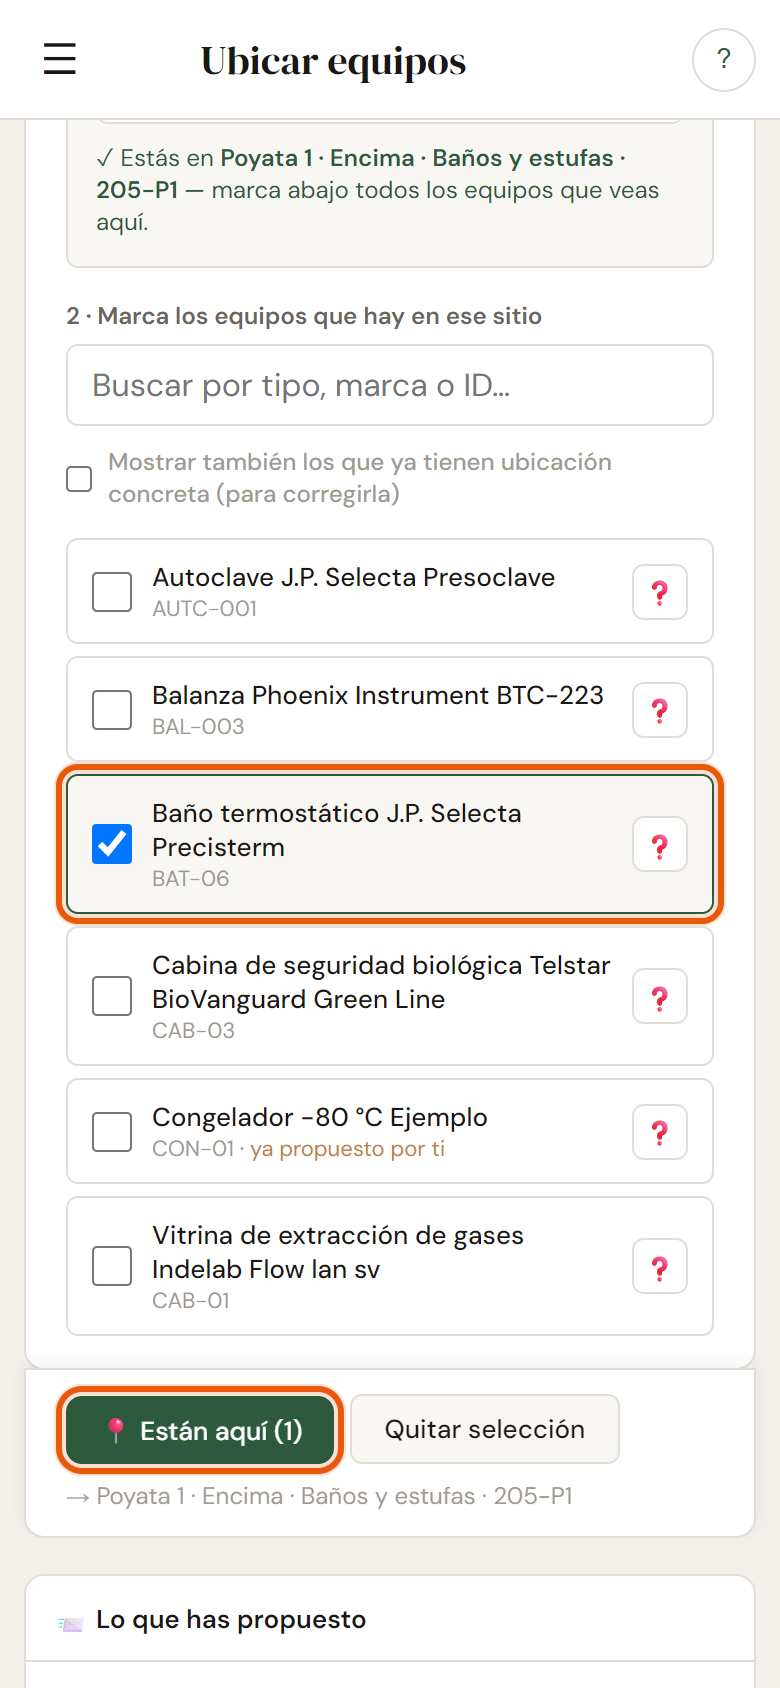
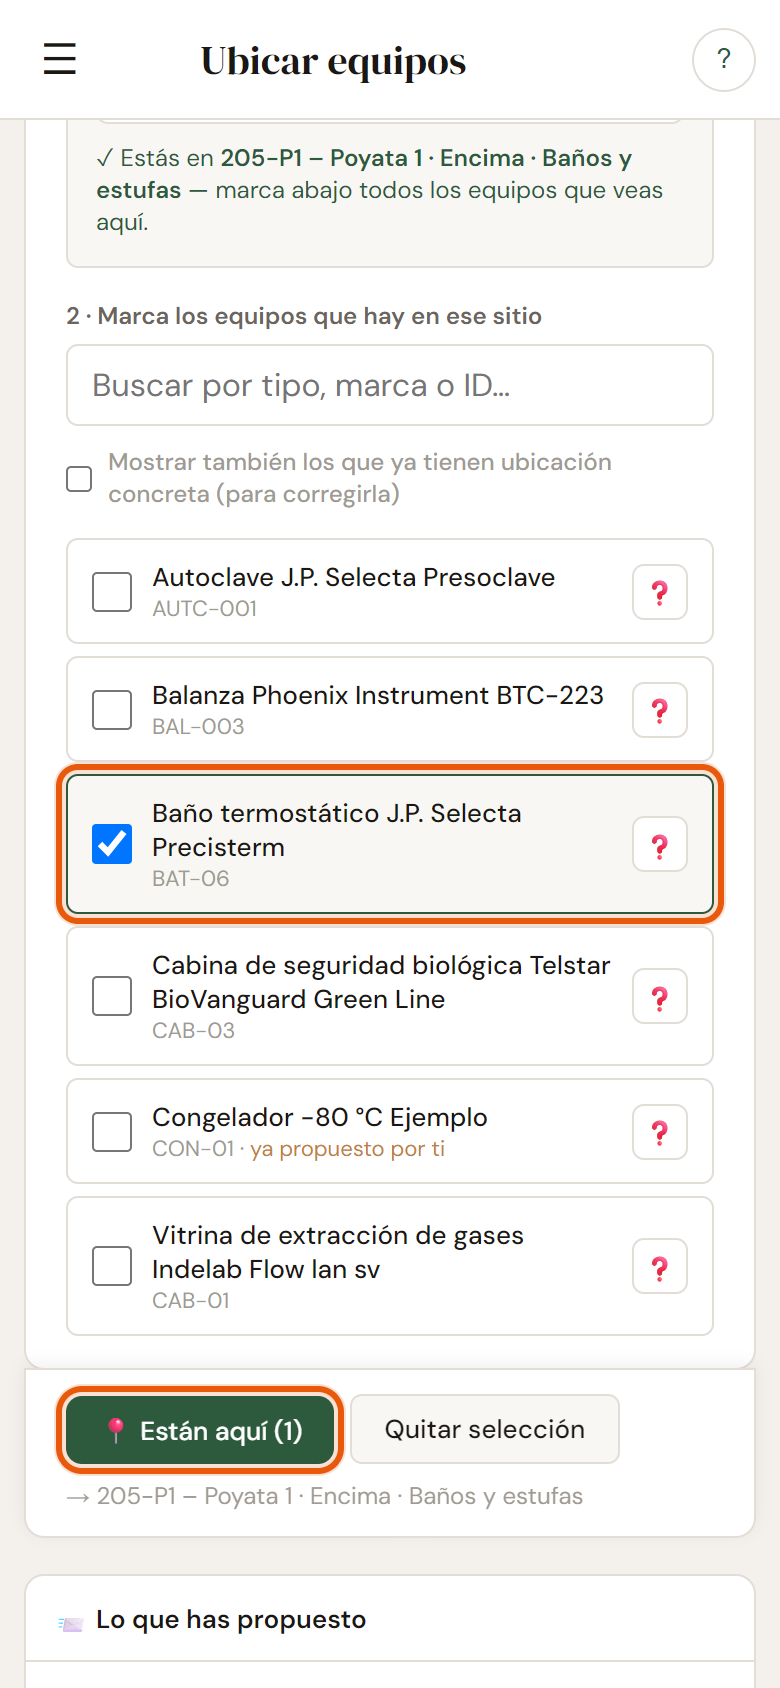
Ubicaciones: siempre «código – zona · localización · contenido»
Había listas con el código al final («Encimera · 201-1.1»), con el laboratorio
delante o sin código. Ahora todas salen de getNombreUbicacion() o, en los
desplegables ya agrupados por laboratorio y zona, de nombreHuecoUbicacion()
(«205-1.5.2 – 2º Cajón · Micropipetas»): Ubicar equipos, Inventariar material,
traslados («Donde ya hay» y el desplegable de destino), buscadores de sitio de
equipos y material, el selector compartido (ya no repite «Zona común»), la
ubicación elegida en la ficha del equipo, la lista de equipos con aviso del
Panel principal y el congelador. Capturas de la Ayuda rehechas.

diff --git a/js/material.js b/js/material.js
@@ -200,8 +200,7 @@ function renderMaterial(filtro, cat, stockFiltro, ubicacion) {
   const dlUbi = document.getElementById('ubicaciones-datalist');
   if (dlUbi) {
     dlUbi.innerHTML = DATA.ubicaciones.filter(u => u.Activa !== 'FALSE').map(u => {
-      const label = [u.ID_Ubicacion, descripcionUbicacion(u)].filter(Boolean).join(' · ');
-      return `<option value="${u.ID_Ubicacion}">${label}</option>`;
+      return `<option value="${u.ID_Ubicacion}">${getNombreUbicacion(u.ID_Ubicacion)}</option>`;
     }).join('');
   }
 
@@ -645,7 +644,8 @@ function buscarUbicacionMat(query) {
    .slice(0, 15);
   if (!resultados.length) { list.classList.remove('open'); return; }
   list.innerHTML = resultados.map(u => {
-    const label = [u.Laboratorio_Aula ? 'Lab ' + u.Laboratorio_Aula : '', descripcionUbicacion(u)].filter(Boolean).join(' · ');
+    // Debajo del código: zona · localización · contenido (orden de getNombreUbicacion)
+    const label = descripcionUbicacion(u) || (u.Laboratorio_Aula ? 'Lab ' + u.Laboratorio_Aula : '');
     return `<div class="autocomplete-item" onclick="seleccionarUbicacionMatLote('${u.ID_Ubicacion}','${label.replace(/'/g,"\\'")}')">
     <div><div class="autocomplete-item-name">${u.ID_Ubicacion}</div><div class="autocomplete-item-meta">${_esc(label)}</div></div>
   </div>`;
@@ -1473,10 +1473,6 @@ function _ubicsConMaterial(matIds, idOrigen) {
   return res;
 }
 
-function _nombreSitio(u) {
-  return huecoUbicacion(u) || zonaUbicacion(u) || u.ID_Ubicacion;
-}
-
 function _rellenarDestinoUbic(idSelect, idOrigen, lab, matIds) {
   if (matIds !== undefined) _destinoMatIds[idSelect] = matIds;
   if (lab === undefined) _destinoManual[idSelect] = false;
@@ -1493,8 +1489,8 @@ function _rellenarDestinoUbic(idSelect, idOrigen, lab, matIds) {
     labs.map(l => `<option value="${_escAttr(l)}" ${l === lab ? 'selected' : ''}>${_esc(l)}</option>`).join('');
 
   const yaHay  = _ubicsConMaterial(_destinoMatIds[idSelect], idOrigen);
-  // En "★ Ya hay de este material" no hay optgroup de zona: la zona va en el texto.
-  const opt    = (u, conZona) => `<option value="${_escAttr(u.ID_Ubicacion)}">${_esc(conZona && zonaUbicacion(u) && zonaUbicacion(u) !== _nombreSitio(u) ? zonaUbicacion(u) + ' · ' + _nombreSitio(u) : _nombreSitio(u))} · ${_esc(u.ID_Ubicacion)}</option>`;
+  // En "★ Ya hay de este material" no hay optgroup de zona: el texto va entero.
+  const opt    = (u, conZona) => `<option value="${_escAttr(u.ID_Ubicacion)}">${_esc(conZona ? getNombreUbicacion(u.ID_Ubicacion) : nombreHuecoUbicacion(u))}</option>`;
   const porId  = (a, b) => a.ID_Ubicacion.localeCompare(b.ID_Ubicacion, 'es', { numeric: true });
   const ubics  = activas.filter(u => labDe(u) === lab);
   const conMat = ubics.filter(u => yaHay.has(u.ID_Ubicacion)).sort(porId);
@@ -1538,7 +1534,7 @@ function _pintarSugerencias(idSelect, idOrigen) {
               title="${_escAttr(nombres.join(', '))}"
               data-origen="${_escAttr(idOrigen)}" data-ubic="${_escAttr(u.ID_Ubicacion)}"
               onclick="_elegirDestinoSugerido('${idSelect}', this.dataset.origen, this.dataset.ubic)">
-        <span>${sel ? '✓ ' : ''}<strong>${_esc(labDe(u))}</strong> · ${_esc(_nombreSitio(u))}
+        <span>${sel ? '✓ ' : ''}<strong>${_esc(u.ID_Ubicacion)}</strong> – ${_esc(descripcionUbicacion(u) || labDe(u))}
         ${varios ? `<span style="display:block;font-size:11px;color:var(--text-muted);font-weight:400">${_esc(nombres.join(', '))}</span>` : ''}</span>
       </button>`; }).join('')}</div>
     ${verManual
@@ -1839,7 +1835,7 @@ function buscarDestinoSubdiv(i, query) {
   ).slice(0, 8);
   if (!resultados.length) { list.classList.remove('open'); return; }
   list.innerHTML = resultados.map(u => {
-    const label = [u.Laboratorio_Aula ? 'Lab ' + u.Laboratorio_Aula : '', descripcionUbicacion(u)].filter(Boolean).join(' · ');
+    const label = descripcionUbicacion(u) || (u.Laboratorio_Aula ? 'Lab ' + u.Laboratorio_Aula : '');
     return `<div class="autocomplete-item" onclick="seleccionarDestinoSubdiv(${i},'${u.ID_Ubicacion}')">
       <div><div class="autocomplete-item-name">${u.ID_Ubicacion}</div><div class="autocomplete-item-meta">${label}</div></div>
     </div>`;

diff --git a/js/equipos-render.js b/js/equipos-render.js
@@ -391,7 +391,7 @@ function _renderEquiposAvisoGrupo(esAlumno) {
     }
     if (fuera) etiquetas.push(`<span class="badge badge-gray" style="font-size:10px">📦 Fuera del centro</span>`);
     return `<div class="equipo-aviso-fila" onclick="abrirEquipoEnInventario('${esc(e.ID_Activo)}')">
-      <div><strong>${esc(e.ID_Activo)}</strong> · ${esc(e.Tipo_Equipo || '')} <span style="color:var(--text-muted);font-size:12px">${esc(e.Ubicacion || '')}</span></div>
+      <div><strong>${esc(e.ID_Activo)}</strong> · ${esc(e.Tipo_Equipo || '')} <span style="color:var(--text-muted);font-size:12px">${esc(e.Ubicacion ? getNombreUbicacion(e.Ubicacion) : '')}</span></div>
       <div class="equipo-aviso-etiquetas">${etiquetas.join('')}</div>
     </div>`;
   }).join('');
@@ -484,7 +484,7 @@ function buildIntervencionesEquipo(equipoId) {
   const panelDetalles = htmlAvisoEquipo(equipoId) + avisoFuera + `
     <div style="display:grid;grid-template-columns:repeat(auto-fill,minmax(150px,1fr));gap:8px 16px;padding:10px 12px;background:var(--bg);border-radius:var(--radius-sm);border:1px solid var(--border);margin-bottom:14px">
       <div class="detail-mobile-only">${detalle('Marca / Modelo', [equipo.Marca, equipo.Modelo].filter(Boolean).join(' · '))}</div>
-      <div class="detail-mobile-only">${detalle('Ubicación', equipo.Ubicacion)}</div>
+      <div class="detail-mobile-only">${detalle('Ubicación', equipo.Ubicacion ? getNombreUbicacion(equipo.Ubicacion) : '')}</div>
       <div class="detail-mobile-only">${detalle('Responsable', equipo.Responsable)}</div>
       ${detalle('Nº de serie', equipo.Numero_Serie)}
       ${detalle('Origen financiación', equipo.Origen_Financiacion)}

diff --git a/js/config.js b/js/config.js
@@ -211,11 +211,24 @@ function getMinOptLabel(mat) {
 // solas no identifican el sitio: hay siete "Izquierda · Encimera" en el 201).
 // Si el laboratorio tiene apellido ("205 - Zona común", "207 - Residuos")
 // también sale. Detrás, el uso/contenido ("Puntas y tubos"); las observaciones no.
+//
+// ⚠ ORDEN, en toda la app (Paloma, 2026-11-25): código – zona · localización · contenido,
+// p. ej. «205-ZC-2.5 – Zona común · Inferior · Reactivos». Usar siempre getNombreUbicacion()
+// o, en un desplegable ya agrupado por laboratorio y zona, nombreHuecoUbicacion(); no
+// componer el texto a mano (había listas con el código al final o el contenido delante).
 function getNombreUbicacion(idUbicacion) {
   const u = DATA.ubicaciones.find(u => u.ID_Ubicacion === idUbicacion);
   if (!u) return idUbicacion;
   const desc = descripcionUbicacion(u);
   return desc ? `${u.ID_Ubicacion} – ${desc}` : (u.Laboratorio_Aula ? `${u.ID_Ubicacion} – Lab ${u.Laboratorio_Aula}` : u.ID_Ubicacion);
+}
+
+/** «205-1.5.2 – 2º Cajón · Micropipetas»: para un desplegable que ya agrupa por laboratorio y
+ *  zona (el primer tramo de la localización), el código y lo que queda: posición y contenido. */
+function nombreHuecoUbicacion(u) {
+  if (!u) return '';
+  const resto = huecoUbicacion(u) || zonaUbicacion(u);
+  return resto ? `${u.ID_Ubicacion} – ${resto}` : u.ID_Ubicacion;
 }
 
 // Desde 2026-11-25 una ubicación se describe con DOS ideas (las columnas

diff --git a/js/equipos-acciones.js b/js/equipos-acciones.js
@@ -224,10 +224,8 @@ async function editEquipo(idx) {
   const selUbi = document.getElementById('eq-ubicacion-selected');
   const txtUbi = document.getElementById('eq-ubicacion-selected-text');
   if (e.Ubicacion) {
-    const uObj = DATA.ubicaciones.find(u => u.ID_Ubicacion === e.Ubicacion);
-    const label = uObj ? (uObj.Laboratorio_Aula || '') + (uObj.Zona ? ' · ' + uObj.Zona : '') : '';
     if (selUbi) selUbi.style.display = 'flex';
-    if (txtUbi) txtUbi.textContent = e.Ubicacion + (label ? ' – ' + label : '');
+    if (txtUbi) txtUbi.textContent = getNombreUbicacion(e.Ubicacion);
   } else {
     if (selUbi) selUbi.style.display = 'none';
   }
@@ -1787,7 +1785,8 @@ function buscarUbicacionEquipo(query) {
   ).slice(0, 8);
   if (!resultados.length) { list.classList.remove('open'); return; }
   list.innerHTML = resultados.map(u => {
-    const label = ['Lab ' + (u.Laboratorio_Aula || ''), descripcionUbicacion(u)].filter(x => x && x !== 'Lab ').join(' · ');
+    // Debajo del código: zona · localización · contenido (orden de getNombreUbicacion)
+    const label = descripcionUbicacion(u) || (u.Laboratorio_Aula ? 'Lab ' + u.Laboratorio_Aula : '');
     return `<div class="autocomplete-item" onclick="seleccionarUbicacionEquipo('${u.ID_Ubicacion}','${label.replace(/'/g,"\\'")}')">
       <div><div class="autocomplete-item-name">${u.ID_Ubicacion}</div><div class="autocomplete-item-meta">${label}</div></div>
     </div>`;

diff --git a/js/inventariar-material.js b/js/inventariar-material.js
@@ -107,7 +107,7 @@ function _invMatLabsSitio() {
 function _invMatEtiquetaUbic(idUbicacion) {
   const u = DATA.ubicaciones.find(x => x.ID_Ubicacion === idUbicacion);
   if (!u) return idUbicacion || '';
-  return [u.Zona, usoUbicacion(u), u.ID_Ubicacion].filter(Boolean).join(' · ');
+  return getNombreUbicacion(idUbicacion);
 }
 
 /** La tarjeta de arriba: el laboratorio y, dentro, la zona concreta. */
@@ -135,7 +135,7 @@ function _invMatRenderSitio() {
               ${zonas.map(z => `
                 <optgroup label="${_escAttr(z)}">
                   ${ubics.filter(u => (zonaUbicacion(u) || 'Sin zona') === z).map(u =>
-                    `<option value="${_escAttr(u.ID_Ubicacion)}" ${u.ID_Ubicacion === sitio.idUbicacion ? 'selected' : ''}>${_esc(huecoUbicacion(u) || zonaUbicacion(u) || u.ID_Ubicacion)} · ${_esc(u.ID_Ubicacion)}</option>`
+                    `<option value="${_escAttr(u.ID_Ubicacion)}" ${u.ID_Ubicacion === sitio.idUbicacion ? 'selected' : ''}>${_esc(nombreHuecoUbicacion(u))}</option>`
                   ).join('')}
                 </optgroup>`).join('')}
             </select>` : ''}

diff --git a/js/ubicar-equipos.js b/js/ubicar-equipos.js
@@ -84,12 +84,12 @@ function _ubicLabsUsuario() {
 function _ubicEtiqueta(idUbicacion) {
   const u = DATA.ubicaciones.find(u => u.ID_Ubicacion === idUbicacion);
   if (!u) return idUbicacion || '—';
-  return [u.Zona, usoUbicacion(u), u.ID_Ubicacion].filter(Boolean).join(' · ');
+  return getNombreUbicacion(idUbicacion);
 }
 
-/** Etiqueta corta para el desplegable, ya agrupado por zona: "Encimera · 201-1.1" */
+/** Etiqueta corta para el desplegable, ya agrupado por zona: "201-1.1 – Encimera" */
 function _ubicEtiquetaCorta(u) {
-  return [huecoUbicacion(u), u.ID_Ubicacion].filter(Boolean).join(' · ');
+  return nombreHuecoUbicacion(u);
 }
 
 function _ubicNombreEquipo(eq) {

diff --git a/js/mantenimiento.js b/js/mantenimiento.js
@@ -2412,7 +2412,7 @@ async function exportarModeloCalidad(cursoAcademico) {
   function ubicacionTexto(idUbicacion) {
     const u = DATA.ubicaciones.find(u => u.ID_Ubicacion === idUbicacion);
     if (!u) return idUbicacion || '';
-    return [u.Laboratorio_Aula, u.Zona, u.Subzona].filter(Boolean).join(', ');
+    return getNombreUbicacion(idUbicacion);
   }
 
   const VALID_PERIODICIDADES = new Set(['Diaria','Semanal','Quincenal','Mensual','Bimensual','Trimestral','Semestral','Anual','Bianual','Trianual','Quinquenal','Decenal']);

diff --git a/js/ubic-picker.js b/js/ubic-picker.js
@@ -33,7 +33,8 @@ function _ubpEtiquetaLab(lab) {
 function ubicDescripcionLarga(idUbicacion) {
   const u = DATA.ubicaciones.find(x => x.ID_Ubicacion === idUbicacion);
   if (!u) return idUbicacion || '';
-  return [_ubpEtiquetaLab(u.Laboratorio_Aula), descripcionUbicacion(u)].filter(Boolean).join(' · ');
+  // Va detrás del código: zona · localización · contenido (orden de getNombreUbicacion)
+  return descripcionUbicacion(u) || _ubpEtiquetaLab(u.Laboratorio_Aula);
 }
 
 function _ubpActivas() {

diff --git a/js/congelados.js b/js/congelados.js
@@ -213,7 +213,7 @@ function _congNombreEquipo(idEquipo, conUbicacion = true) {
   const e = DATA.equipos.find(x => x.ID_Activo === idEquipo);
   if (!e) return idEquipo || '—';
   const nombre = [e.Tipo_Equipo, e.Marca, e.Modelo].filter(Boolean).join(' ');
-  return `${nombre} (${e.ID_Activo})${conUbicacion && e.Ubicacion ? ' · ' + e.Ubicacion : ''}`;
+  return `${nombre} (${e.ID_Activo})${conUbicacion && e.Ubicacion ? ' · ' + getNombreUbicacion(e.Ubicacion) : ''}`;
 }
 
 function _congEsc(s) {
